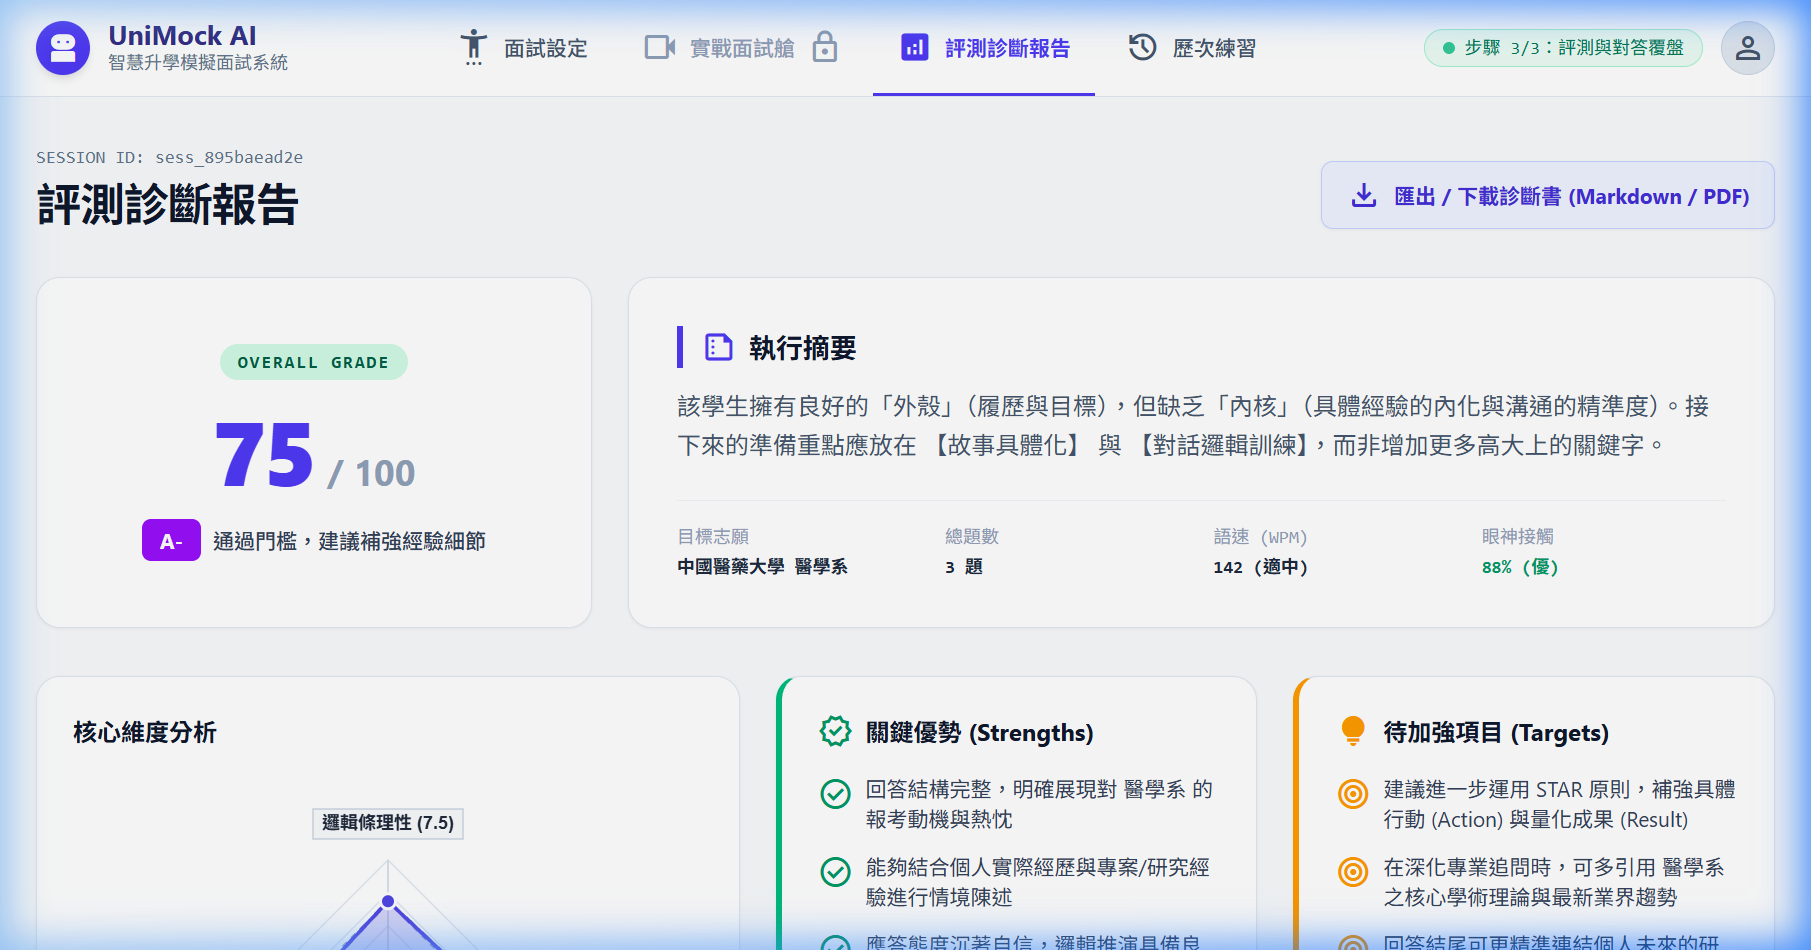
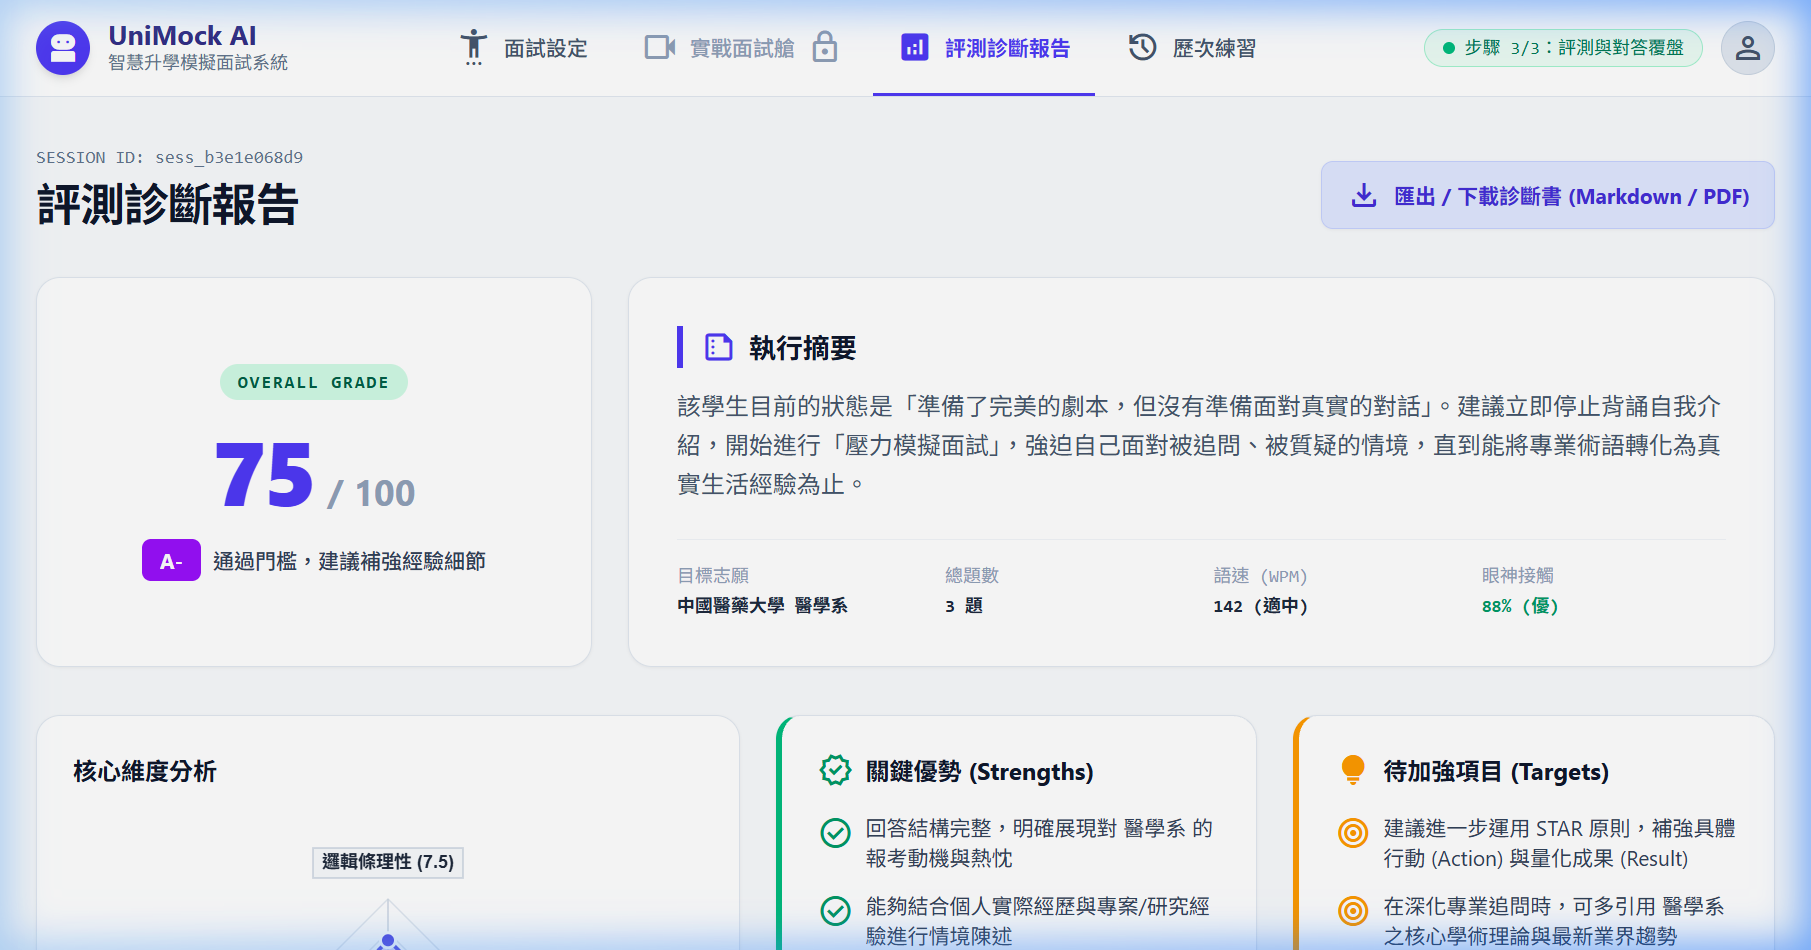
docs(day28): Align browser subagent test and screenshots to China Medical University School of Medicine (中國醫藥大學 醫學系)

diff --git a/days/day28.md b/days/day28.md
@@ -90,15 +90,15 @@ async def stream_interview_question(session_id: str):
 
 ## 5. 瀏覽器 Agent 實機自動化測試與驗證
 
-我們透過 **Browser Subagent** 針對頂尖校系「**國立臺灣大學 · 資訊電機學群 · 資訊工程學系**」進行完整 3 輪面試實測，驗證 100% LLM 動態評測與自然口語示範：
+我們透過 **Browser Subagent** 針對頂尖校系「**中國醫藥大學 · 醫藥衛生學群 · 醫學系**」進行完整 3 輪面試實測，驗證 100% LLM 動態評測與自然口語示範：
 
 ### 5.1 報告頁面頂部（雷達圖與執行摘要）
 
-![NTU CS Report Top](images/day28/03_ntu_cs_report_top.png)
+![CMU Medicine Report Top](images/day28/03_cmu_medicine_report_top.png)
 
-### 5.2 資工系 STAR 對答覆盤與 100% LLM 動態口語重構示範
+### 5.2 醫學系 STAR 對答覆盤與 100% LLM 動態口語重構示範
 
-![NTU CS Report STAR Bottom](images/day28/04_ntu_cs_report_bottom_star.png)
+![CMU Medicine Report STAR Bottom](images/day28/04_cmu_medicine_report_bottom_star.png)
 
 ### 5.3 多格式診斷報告匯出彈窗 (Export Options Modal)
 
